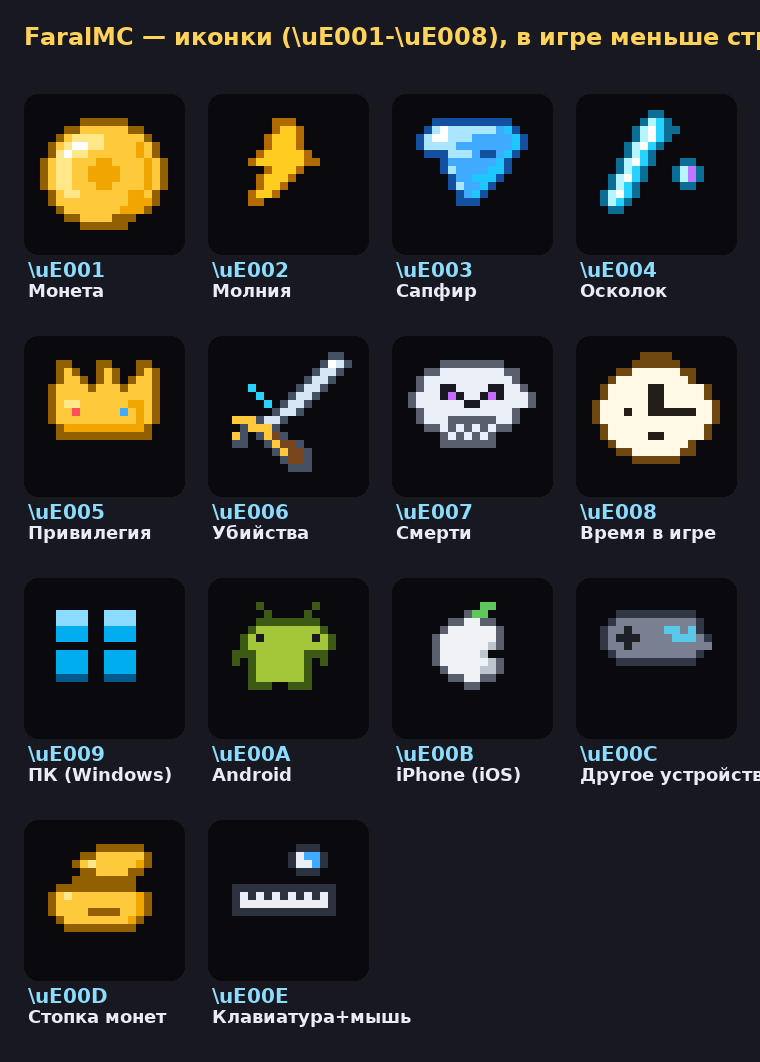
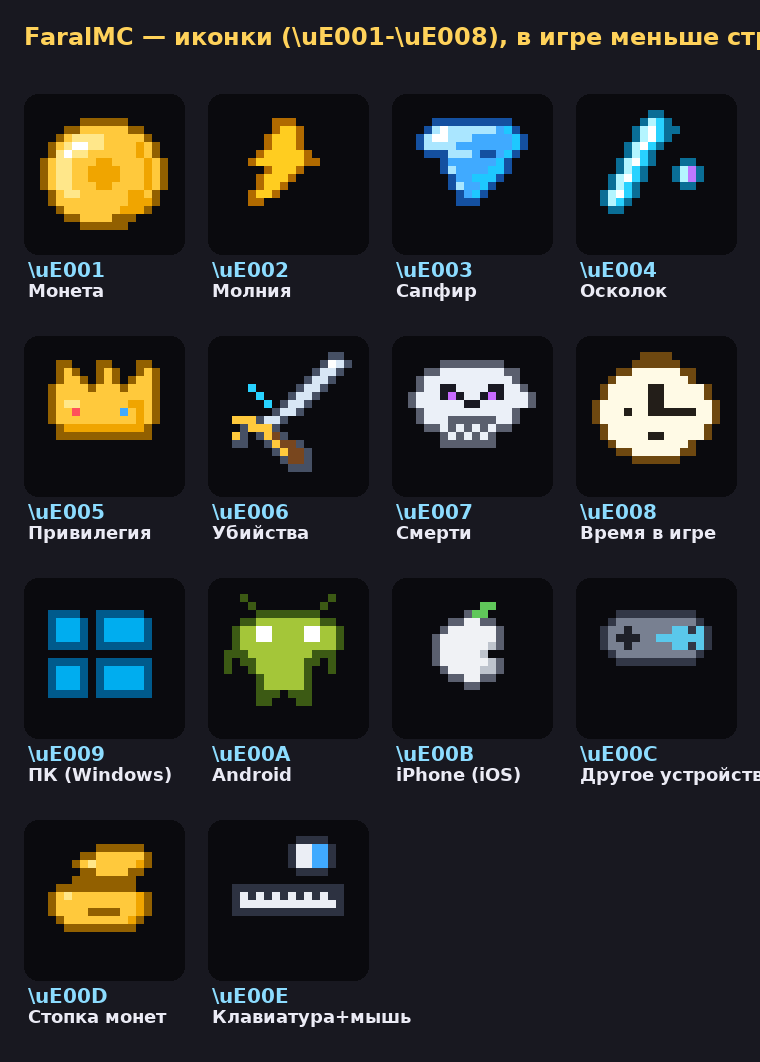
v1.20.0: нормальные иконки устройств (андроид с глазами, 12x12), пак 1.12.0; FaralTab 1.13.0 — определение устройства: фолбэк на Geyser, префикс ника всегда, debug по всем

diff --git a/FaralTab/src/main/java/ru/FaralMC/FaralTab/Hooks.java b/FaralTab/src/main/java/ru/FaralMC/FaralTab/Hooks.java
@@ -38,6 +38,9 @@ public final class Hooks {
     private Method fgIsFloodgatePlayer;
     private Method fgGetPlayer;
 
+    private Object geyserApi;        // GeyserApi (запасной источник устройства)
+    private Method geyserConnectionByUuid;
+
     private Method papiSetPlaceholders; // PlaceholderAPI.setPlaceholders (static)
     private boolean papiTried;
 
@@ -47,6 +50,7 @@ public final class Hooks {
         initLuckPerms();
         initPlayerPoints();
         initFloodgate();
+        initGeyser();
     }
 
     // ---------------------------------------------------------------- Vault
@@ -256,14 +260,98 @@ public final class Hooks {
      * FloodgatePlayer.getDeviceOs() возвращает enum org.geysermc.geyser.configuration.DeviceOs.
      */
     public String deviceOs(UUID uuid) {
-        String os = floodgateEnum(uuid, "getDeviceOs");
-        return os == null ? "UNKNOWN" : os;
+        String os = floodgateDeviceOs(uuid);
+        if (os == null || os.isBlank() || os.equals("UNKNOWN")) {
+            String g = geyserEnum(uuid, "deviceOs", "getDeviceOs");
+            if (g != null && !g.isBlank()) {
+                os = g; // Floodgate не ответил — берём напрямую из Geyser
+            }
+        }
+        return os == null || os.isBlank() ? "UNKNOWN" : os;
+    }
+
+    /** Сырое значение Floodgate (для /faraltab debug). */
+    public String floodgateDeviceOs(UUID uuid) {
+        return floodgateEnum(uuid, "getDeviceOs");
+    }
+
+    /** Сырое значение Geyser (для /faraltab debug). */
+    public String geyserDeviceOs(UUID uuid) {
+        return geyserEnum(uuid, "deviceOs", "getDeviceOs");
+    }
+
+    public String geyserInputMode(UUID uuid) {
+        return geyserEnum(uuid, "inputMode", "getInputMode");
+    }
+
+    /** Подключение Geyser напрямую: GeyserApi.api().connectionByUuid(uuid), оттуда deviceOs/inputMode. */
+    private void initGeyser() {
+        Plugin geyser = Bukkit.getPluginManager().getPlugin("Geyser-Spigot");
+        if (geyser == null) {
+            geyser = Bukkit.getPluginManager().getPlugin("Geyser");
+        }
+        if (geyser == null) {
+            return;
+        }
+        try {
+            Class<?> apiClass = Class.forName("org.geysermc.geyser.api.GeyserApi", true, geyser.getClass().getClassLoader());
+            Method api = findMethod(apiClass, "api");
+            geyserApi = api == null ? null : api.invoke(null);
+            if (geyserApi != null) {
+                geyserConnectionByUuid = findMethod(geyserApi.getClass(), "connectionByUuid", UUID.class);
+                if (geyserConnectionByUuid == null) {
+                    geyserConnectionByUuid = findMethod(geyserApi.getClass(), "playerByUuid", UUID.class);
+                }
+                if (geyserConnectionByUuid != null) {
+                    log.info("Geyser подключён (запасной источник устройства игрока)");
+                }
+            }
+        } catch (Throwable t) {
+            log.warning("Geyser hook: " + t.getMessage());
+        }
+    }
+
+    private String geyserEnum(UUID uuid, String... getters) {
+        if (geyserApi == null || geyserConnectionByUuid == null) {
+            return null;
+        }
+        try {
+            Object connection = geyserConnectionByUuid.invoke(geyserApi, uuid);
+            if (connection == null) {
+                return null;
+            }
+            for (String getter : getters) {
+                Method m = findMethod(connection.getClass(), getter);
+                if (m == null) {
+                    continue;
+                }
+                Object v = m.invoke(connection);
+                if (v == null) {
+                    continue;
+                }
+                try {
+                    Method nameMethod = v.getClass().getMethod("name");
+                    return String.valueOf(nameMethod.invoke(v)).toUpperCase(java.util.Locale.ROOT);
+                } catch (Throwable ignored) {
+                    return v.toString().toUpperCase(java.util.Locale.ROOT);
+                }
+            }
+            return null;
+        } catch (Throwable t) {
+            return null;
+        }
     }
 
     /** Режим ввода Bedrock-клиента: KEYBOARD_MOUSE, TOUCH, CONTROLLER, VR, UNKNOWN. */
     public String inputMode(UUID uuid) {
         String mode = floodgateEnum(uuid, "getInputMode");
-        return mode == null ? "UNKNOWN" : mode;
+        if (mode == null || mode.isBlank() || mode.equals("UNKNOWN")) {
+            String g = geyserEnum(uuid, "inputMode", "getInputMode");
+            if (g != null && !g.isBlank()) {
+                mode = g;
+            }
+        }
+        return mode == null || mode.isBlank() ? "UNKNOWN" : mode;
     }
 
     /** Модель устройства из Floodgate (для диагностики), может быть пустой. */

diff --git a/tools/make_icons.py b/tools/make_icons.py
@@ -46,7 +46,7 @@ PALETTES = {
               "H": (120, 70, 10, 255), "S": (240, 165, 0, 255), "W": (255, 255, 255, 255)},
     "windows": {"D": (0, 90, 140, 255), "B": (0, 173, 239, 255), "L": (140, 220, 255, 255)},
     "android": {"D": (60, 90, 20, 255), "G": (164, 198, 57, 255), "L": (210, 235, 150, 255),
-                "K": (25, 25, 35, 255)},
+                "K": (25, 25, 35, 255), "W": (255, 255, 255, 255)},
     "apple": {"D": (90, 95, 110, 255), "W": (240, 242, 245, 255), "S": (190, 196, 205, 255),
               "G": (96, 200, 90, 255)},
     "device": {"D": (50, 55, 70, 255), "C": (90, 200, 235, 255), "F": (120, 128, 145, 255), "K": (30, 32, 40, 255), "L": (200, 240, 255, 255),
@@ -204,36 +204,36 @@ ICONS = {
     "E009": ("windows", [
         "................",
         "................",
-        "..LLLL..LLLL....",
-        "..LLLL..LLLL....",
-        "..BBBB..BBBB....",
-        "..BBBB..BBBB....",
+        ".DDDD..DDDDDD...",
+        ".DBBBD.DBBBBBD..",
+        ".DBBBD.DBBBBBD..",
+        ".DBBBD.DBBBBBD..",
+        ".DDDDD.DDDDDDD..",
         "................",
-        "..BBBB..BBBB....",
-        "..BBBB..BBBB....",
-        "..BBBB..BBBB....",
-        "..DDDD..DDDD....",
-        "................",
-        "................",
+        ".DDDDD.DDDDDDD..",
+        ".DBBBD.DBBBBBD..",
+        ".DBBBD.DBBBBBD..",
+        ".DBBBD.DBBBBBD..",
+        ".DDDDD.DDDDDDD..",
         "................",
         "................",
         "................",
     ]),
     "E00A": ("android", [
-        "................",
-        "....D......D....",
-        ".....D....D.....",
+        "..D..........D..",
+        "...D........D...",
         "....DDDDDDDD....",
-        "...DGGGGGGGGD...",
-        "..DGKGGGGGGKGD..",
-        "..DGGGGGGGGGGD..",
-        ".DDDGGGGGGDDD...",
-        ".D.DGGGGGGD.D...",
-        "...DGGGGGGD.....",
-        "...DGGGGGGD.....",
-        "...DDD..DDD.....",
-        "................",
-        "................",
+        "..DDGGGGGGGGDD..",
+        ".DGGWWGGGGWWGGD.",
+        ".DGGWWGGGGWWGGD.",
+        ".DGGGGGGGGGGGGD.",
+        "DDDGGGGGGGGDDD..",
+        "D.DDGGGGGGDD.D..",
+        "D..DGGGGGGD..D..",
+        "....DGGGGGD.....",
+        "....DGGGGGD.....",
+        "....DDD.DDD.....",
+        "....DD...DD.....",
         "................",
         "................",
     ]),
@@ -260,9 +260,9 @@ ICONS = {
         "................",
         "...DDDDDDDDDD...",
         "..DFFFFFFFFFFD..",
-        ".DFFKFFFFCCFCD..",
-        ".DFKKKFFFFCCCFD.",
-        ".DFFKFFFFFFFFFF.",
+        ".DFFKFFFFFCCDCD.",
+        ".DFKKKFFCCCCCCD.",
+        ".DFFKFFFFFCCDCD.",
         "..DFFFFFFFFFFD..",
         "...DDDDDDDDDD...",
         "................",
@@ -292,16 +292,16 @@ ICONS = {
         "................",
     ]),
     "E00E": ("kbmouse", [
+        ".........DDDD...",
+        "........DWWBBD..",
+        "........DWWBBD..",
+        "........DWWBBD..",
+        ".........DDDD...",
         "................",
-        ".........DDD....",
-        "........DWBBD...",
-        "........DWWBD...",
-        ".........DDD....",
-        "................",
-        ".DDDDDDDDDDDDD..",
-        ".DWDWDWDWDWDWD..",
-        ".DWWWWWWWWWWWD..",
-        ".DDDDDDDDDDDDD..",
+        ".DDDDDDDDDDDDDD.",
+        ".DWDWDWDWDWDWDD.",
+        ".DWWWWWWWWWWWWD.",
+        ".DDDDDDDDDDDDDD.",
         "................",
         "................",
         "................",
@@ -317,6 +317,7 @@ LABELS_RU = {
     "windows": "ПК (Windows)", "android": "Android", "apple": "iPhone (iOS)", "device": "Другое устройство",
     "coins": "Стопка монет", "kbmouse": "Клавиатура+мышь",
 }
+DEVICE_CODES = {"E009", "E00A", "E00B", "E00C", "E00E"}  # windows/android/apple/device/kbmouse
 CELL = 16   # ячейка на листе 256x256 (как ванильный шрифт Bedrock)
 OFF = 4     # иконка 8x8 по центру ячейки 16x16: в Bedrock глиф крупнее букв, 13x13 было слишком много
 
@@ -452,8 +453,12 @@ def main():
         img = render(rows, name)
         rendered[code] = (name, img)
         idx = int(code[1:], 16)
-        small = img.resize((8, 8), Image.NEAREST)
-        sheet.paste(small, ((idx % 16) * CELL + OFF, (idx // 16) * CELL + OFF), small)
+        if code in DEVICE_CODES:  # значки устройств — в ник над головой, там надо покрупнее
+            big = img.resize((12, 12), Image.NEAREST)
+            sheet.paste(big, ((idx % 16) * CELL + 2, (idx // 16) * CELL + 2), big)
+        else:
+            small = img.resize((8, 8), Image.NEAREST)
+            sheet.paste(small, ((idx % 16) * CELL + OFF, (idx // 16) * CELL + OFF), small)
         img.save(PREVIEW / "icons" / f"{code[1:]}_{name}.png")
         img.resize((256, 256), Image.NEAREST).save(PREVIEW / "icons" / f"{code[1:]}_{name}_x16.png")
     strip = make_title_strip()

diff --git a/FaralTab/src/main/java/ru/FaralMC/FaralTab/FaralTab.java b/FaralTab/src/main/java/ru/FaralMC/FaralTab/FaralTab.java
@@ -188,11 +188,21 @@ public final class FaralTab extends JavaPlugin implements Listener, CommandExecu
                 sender.sendMessage(prefix + "Использование: /faraltab debug [игрок]");
                 return true;
             }
+            java.util.UUID tu = target.getUniqueId();
             sender.sendMessage(prefix + "FaralTab v" + getDescription().getVersion()
-                    + " | Floodgate: " + (hooks.hasFloodgate() ? "&aда" : "&cНЕТ")
-                    + " | Устройство " + target.getName() + ": &b" + hooks.deviceOs(target.getUniqueId())
-                    + " &7(" + sidebar.deviceIconName(target) + ")"
-                    + " | Префикс ника: '" + nametag.appliedPrefix(target.getUniqueId()) + "'");
+                    + " | Floodgate: " + (hooks.hasFloodgate() ? "&aда" : "&cНЕТ"));
+            sender.sendMessage(prefix + "Игрок &f" + target.getName() + "&7: Floodgate OS=&b" + hooks.floodgateDeviceOs(tu)
+                    + " &7| Geyser OS=&b" + hooks.geyserDeviceOs(tu)
+                    + " &7| Ввод Floodgate=&b" + hooks.inputMode(tu)
+                    + " &7| Ввод Geyser=&b" + hooks.geyserInputMode(tu)
+                    + " &7| Модель=&b" + hooks.deviceModel(tu));
+            sender.sendMessage(prefix + "Итог: &b" + hooks.deviceOs(tu) + " &7-> значок &b" + sidebar.deviceIconName(target)
+                    + " &7(" + sidebar.deviceName(target) + ") | Префикс ника: '" + nametag.appliedPrefix(tu) + "'");
+            sender.sendMessage(prefix + "Все онлайн:");
+            for (Player online : Bukkit.getOnlinePlayers()) {
+                sender.sendMessage(prefix + "&7- &f" + online.getName() + " &7-> &b" + sidebar.deviceIconName(online)
+                        + " &7(" + hooks.deviceOs(online.getUniqueId()) + "/" + hooks.inputMode(online.getUniqueId()) + ")");
+            }
             return true;
         }
         if (args.length >= 1 && args[0].equalsIgnoreCase("reload")) {

diff --git a/FaralTab/src/main/java/ru/FaralMC/FaralTab/SidebarManager.java b/FaralTab/src/main/java/ru/FaralMC/FaralTab/SidebarManager.java
@@ -276,8 +276,13 @@ public final class SidebarManager {
             norm = os;
         }
         boolean mobileOs = norm.equals("ANDROID") || norm.equals("IOS");
-        if (input.equals("KEYBOARD_MOUSE") && (mobileOs || norm.equals("UNKNOWN"))) {
+        boolean keyboard = input.contains("KEYBOARD");
+        if (keyboard && (mobileOs || norm.equals("UNKNOWN"))) {
             return norm.equals("UNKNOWN") ? "windows" : "kbmouse";
+        }
+        if (os.contains("XBOX") || os.contains("SONY") || os.contains("PLAYSTATION") || os.contains("PS4")
+                || os.contains("PS5") || os.contains("NX") || os.contains("SWITCH") || os.contains("NINTENDO")) {
+            return "device"; // консоли — геймпад
         }
         if (norm.equals("WINDOWS")) {
             return "windows";
@@ -288,7 +293,7 @@ public final class SidebarManager {
         if (norm.equals("IOS")) {
             return "apple";
         }
-        if (input.equals("KEYBOARD_MOUSE")) {
+        if (keyboard) {
             return "windows";
         }
         return "device";

diff --git a/FaralTab/src/main/java/ru/FaralMC/FaralTab/NametagManager.java b/FaralTab/src/main/java/ru/FaralMC/FaralTab/NametagManager.java
@@ -94,9 +94,9 @@ public final class NametagManager {
             if (!team.hasEntry(player.getName())) {
                 team.addEntry(player.getName());
             }
-            if (changed) {
-                team.prefix(prefixComponent);
-            }
+            // ставим всегда: у позже зашедшего игрока новый борд, и без этого
+            // его команды остались бы вообще без значка устройства
+            team.prefix(prefixComponent);
         }
 
         // Bedrock (Geyser): неймтег над головой берётся из display/list имени — дублируем туда.
